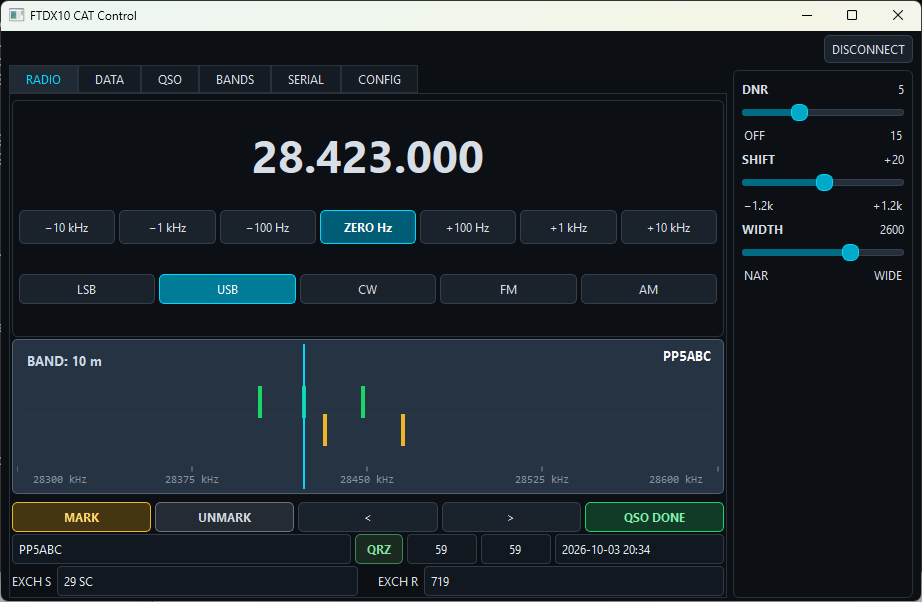
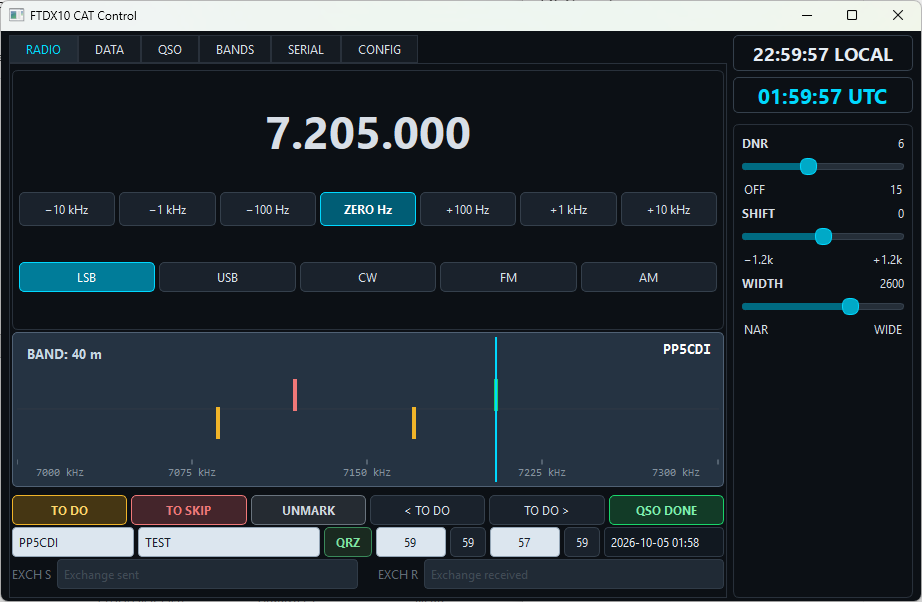
Update website and screenshot for v0.1.0-beta.6

diff --git a/index.html b/index.html
@@ -788,7 +788,7 @@ footer {
 <div class="program-screenshot">
 
   <img
-    src="screen001.png"
+    src="screen001.png?v=beta6"
     alt="CAT Control application running with a Yaesu FTDX10"
   >
 
@@ -875,8 +875,9 @@ footer {
 <p>
 
   Move quickly backward and forward through your stored frequencies.
-  Hover over MARK, UNMARK, &lt; or &gt; and use the mouse wheel:
-  down visits the previous mark; up visits the next.
+  Use &lt; TO DO and TO DO &gt;, or hover over the marking and navigation buttons
+  and use the mouse wheel. Navigation visits only TO DO frequencies, skipping
+  TO SKIP and completed QSOs, and restores each frequency's saved operating mode.
 
 </p>
 
@@ -893,14 +894,15 @@ footer {
 </div>
 
 <h3>
-  MARK / QSO DONE
+  TO DO / TO SKIP / QSO DONE
 </h3>
 
 <p>
 
-  Keep frequencies marked according to their QSO status. Remember
-  which stations you still want to work and which contacts have
-  already been completed.
+  Use yellow TO DO markers for stations you want to work, red TO SKIP markers
+  for stations to skip, and green QSO DONE markers for completed contacts.
+  TO SKIP and QSO DONE bars appear above the graph's center line.
+  UNMARK removes either pending marker while preserving completed contacts.
 
 </p>
 
@@ -1020,7 +1022,9 @@ footer {
   <h3>Smoother keyboard entry</h3>
   <p>TAB and Shift+TAB skip action buttons, and the read-only QSO date/time field
   does not receive focus. Edits are applied when a field loses focus, including when switching tabs,
-  except where an explicit SAVE button is provided. CALLSIGN, COMMENTS and MY CALLSIGN use uppercase text.</p>
+  except where an explicit SAVE button is provided. CALLSIGN, COMMENTS, MY CALLSIGN and both exchange fields use uppercase text.
+  Tab titles also stay out of the keyboard focus sequence. Editable contact fields
+  have a lighter background so they are easy to identify.</p>
 </article>
 <article class="feature">
   <div class="icon">TXT</div>
@@ -1029,8 +1033,9 @@ footer {
 </article>
 <article class="feature">
   <div class="icon">UTC</div>
-  <h3>UTC at a glance</h3>
-  <p>A live UTC clock above the control panel keeps the current UTC time in view while operating.</p>
+  <h3>Local and UTC clocks</h3>
+  <p>Live clocks above the control panel show the PC's local time above UTC,
+  with both updated every second.</p>
 </article>
 </div>
 
@@ -1110,12 +1115,12 @@ footer {
 <p>
 
   <strong>
-    Press MARK
+    Press TO DO
   </strong>
 
   <br>
 
-  Store the current frequency immediately and continue searching.
+  Store the current frequency and operating mode immediately and continue searching.
 
 </p>
 
@@ -1217,7 +1222,7 @@ footer {
 
 
 <span class="gold">
-  MARK
+  TO DO
 </span>
 
 · Store the frequency instantly
@@ -1237,10 +1242,10 @@ footer {
 
 
 <span class="gold">
-  &lt; / &gt;
+  &lt; TO DO / TO DO &gt;
 </span>
 
-· Navigate through stored frequencies
+· Revisit TO DO frequencies and restore their operating mode
 
 
 <br>
@@ -1405,10 +1410,11 @@ All from one compact operating interface.
 
 <section id="download">
 <div class="cta">
-  <div class="eyebrow">Public beta · 0.1.0-beta.5</div>
-  <h2>Smoother operation. More contact details.</h2>
-  <p>Beta 5 improves typing and MARK/UNMARK responsiveness, adds a COMMENTS field beside CALLSIGN,
-  enforces uppercase entry for callsigns and comments, and displays a live UTC clock.
+  <div class="eyebrow">Public beta · 0.1.0-beta.6</div>
+  <h2>Work the stations you want. Skip the rest.</h2>
+  <p>Beta 6 adds TO DO and TO SKIP markers, navigation through pending stations with
+  frequency and mode recall, lighter contact-entry fields, uppercase exchanges,
+  and live local and UTC clocks.
   This is an early beta, so bug reports and suggestions are welcome!</p>
   <p><strong>Windows · 64-bit · ZIP download · 46.8 MiB</strong><br>
   Single executable. No Python installation or companion dependency folder required.</p>
@@ -1416,9 +1422,9 @@ All from one compact operating interface.
     Total downloads: <strong id="download-total">Loading…</strong>
   </p>
   <div class="buttons" style="justify-content:center">
-    <a class="btn primary" href="https://github.com/ngs109/cat-control/releases/download/v0.1.0-beta.5/CAT-Control.zip">Download beta for Windows</a>
-    <a class="btn secondary" href="https://github.com/ngs109/cat-control/releases/tag/v0.1.0-beta.5">What’s new</a>
-    <a class="btn secondary" href="mailto:nilton.proton@gmail.com?subject=CAT%20Control%200.1.0-beta.5%20feedback">Send feedback</a>
+    <a class="btn primary" href="https://github.com/ngs109/cat-control/releases/download/v0.1.0-beta.6/CAT-Control.zip">Download beta for Windows</a>
+    <a class="btn secondary" href="https://github.com/ngs109/cat-control/releases/tag/v0.1.0-beta.6">What’s new</a>
+    <a class="btn secondary" href="mailto:nilton.proton@gmail.com?subject=CAT%20Control%200.1.0-beta.6%20feedback">Send feedback</a>
   </div>
 </div>
 <div class="showcase" style="margin-top:24px">
@@ -1429,7 +1435,7 @@ All from one compact operating interface.
       <li>When upgrading, keep your settings and QSO recovery JSON files beside the new executable.</li>
       <li>Connect your FTDX10 by USB, with its USB serial driver installed.</li>
       <li>Run CAT-Control.exe. In SERIAL, select your radio's CAT COM port and matching settings, then click CONNECT. Enable “Connect automatically on startup” if desired.</li>
-      <li>Use MARK and the navigation buttons or mouse wheel to revisit stations. Enter CALLSIGN, RST S and RST R before QSO DONE; the “59” buttons fill each report individually.</li>
+      <li>Use TO DO to store a station's frequency and mode, or TO SKIP to mark a station to skip. The navigation buttons and mouse wheel revisit only TO DO stations. Enter CALLSIGN, RST S and RST R before QSO DONE; the “59” buttons fill each report individually.</li>
       <li>For contests, enable Contest mode in DATA and configure your exchange and optional serial number. Both sent and received exchanges are then required. Settings apply when you leave DATA.</li>
       <li>Review confirmed contacts in QSO and export ADIF or Cabrillo as needed.</li>
     </ol>
